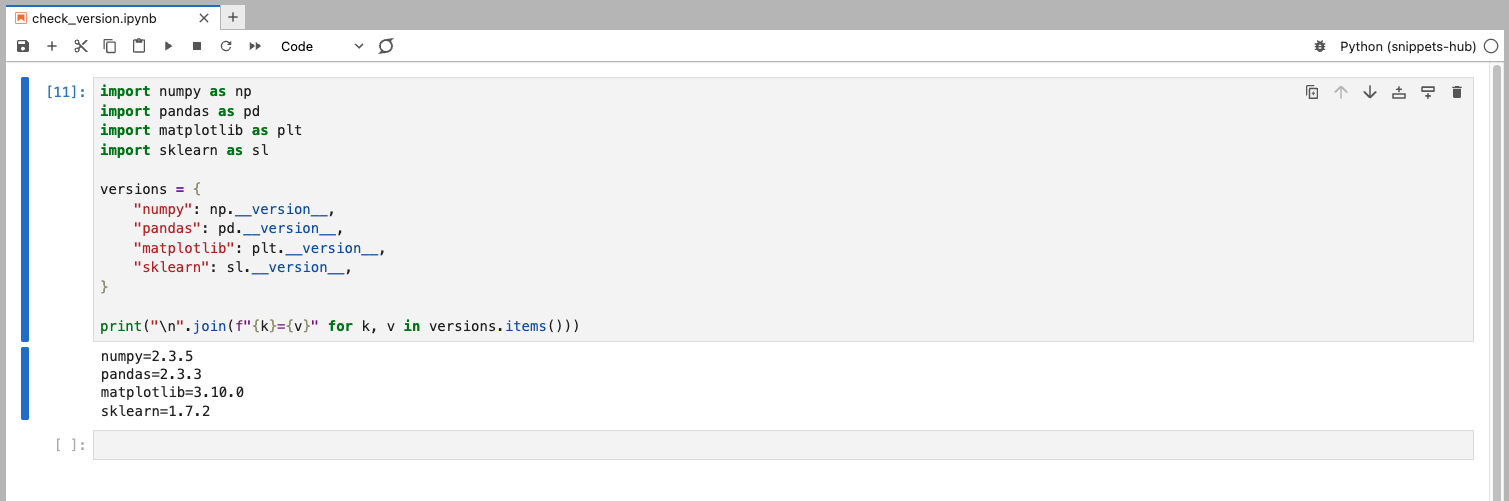
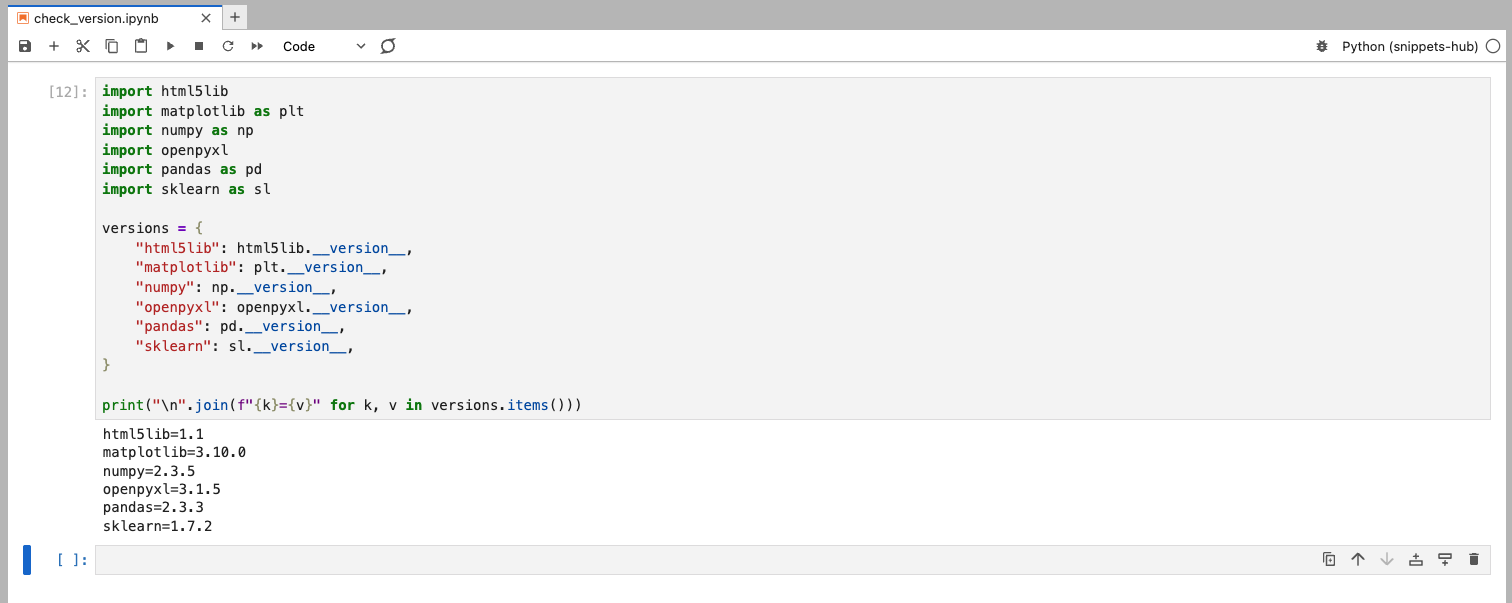
add pkg and recaptured image

diff --git a/articles/3f9b5893376eed.md b/articles/3f9b5893376eed.md
@@ -99,6 +99,8 @@ pandas==2.3.3
 matplotlib==3.10
 scikit-learn==1.7.2
 jupyterlab==4.5.0
+openpyxl==3.1.5
+html5lib==1.1
 ```
 
 仮想環境をアクティブにした状態でインストール:
@@ -136,12 +138,14 @@ cycler 0.12.1
 debugpy 1.8.13
 decorator 5.2.1
 defusedxml 0.7.1
+et_xmlfile 2.0.0
 executing 2.2.0
 fastjsonschema 2.21.1
 fonttools 4.60.1
 fqdn 1.5.1
 freezegun 1.5.1
 h11 0.14.0
+html5lib 1.1 ← これ 👈
 httpcore 1.0.7
 httpx 0.28.1
 idna 3.10
@@ -180,6 +184,7 @@ nbformat 5.10.4
 nest-asyncio 1.6.0
 notebook_shim 0.2.4
 numpy 2.3.5 ← これ 👈
+openpyxl 3.1.5 ← これ 👈
 overrides 7.7.0
 packaging 24.2
 pandas 2.3.3 ← これ 👈
@@ -266,15 +271,19 @@ _初期画面_
 適当にディレクトリ/ファイルを作成し、以下のスニペットを実行します。
 
 ```python
-import numpy as np
-import pandas as pd
+import html5lib
 import matplotlib as plt
+import numpy as np
+import openpyxl
+import pandas as pd
 import sklearn as sl
 
 versions = {
-    "numpy": np.__version__,
-    "pandas": pd.__version__,
+    "html5lib": html5lib.__version__,
     "matplotlib": plt.__version__,
+    "numpy": np.__version__,
+    "openpyxl": openpyxl.__version__,
+    "pandas": pd.__version__,
     "sklearn": sl.__version__,
 }
 
